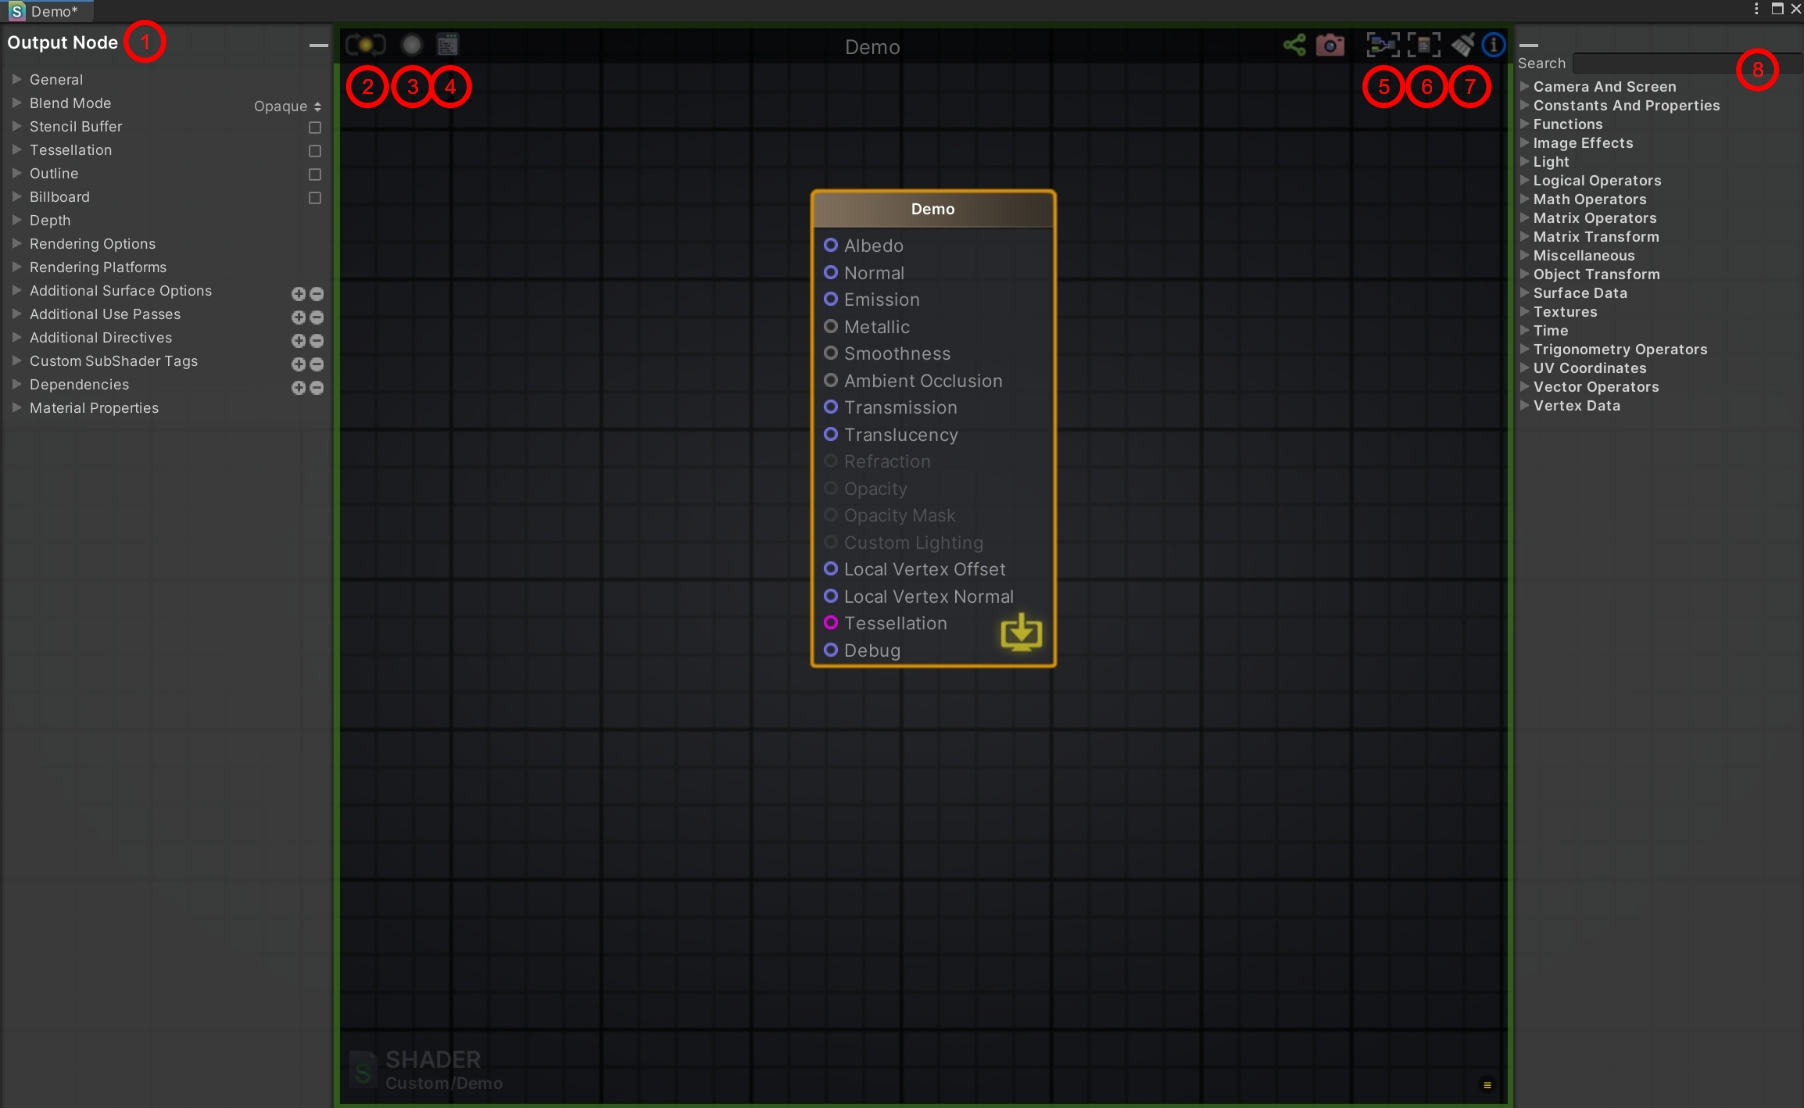
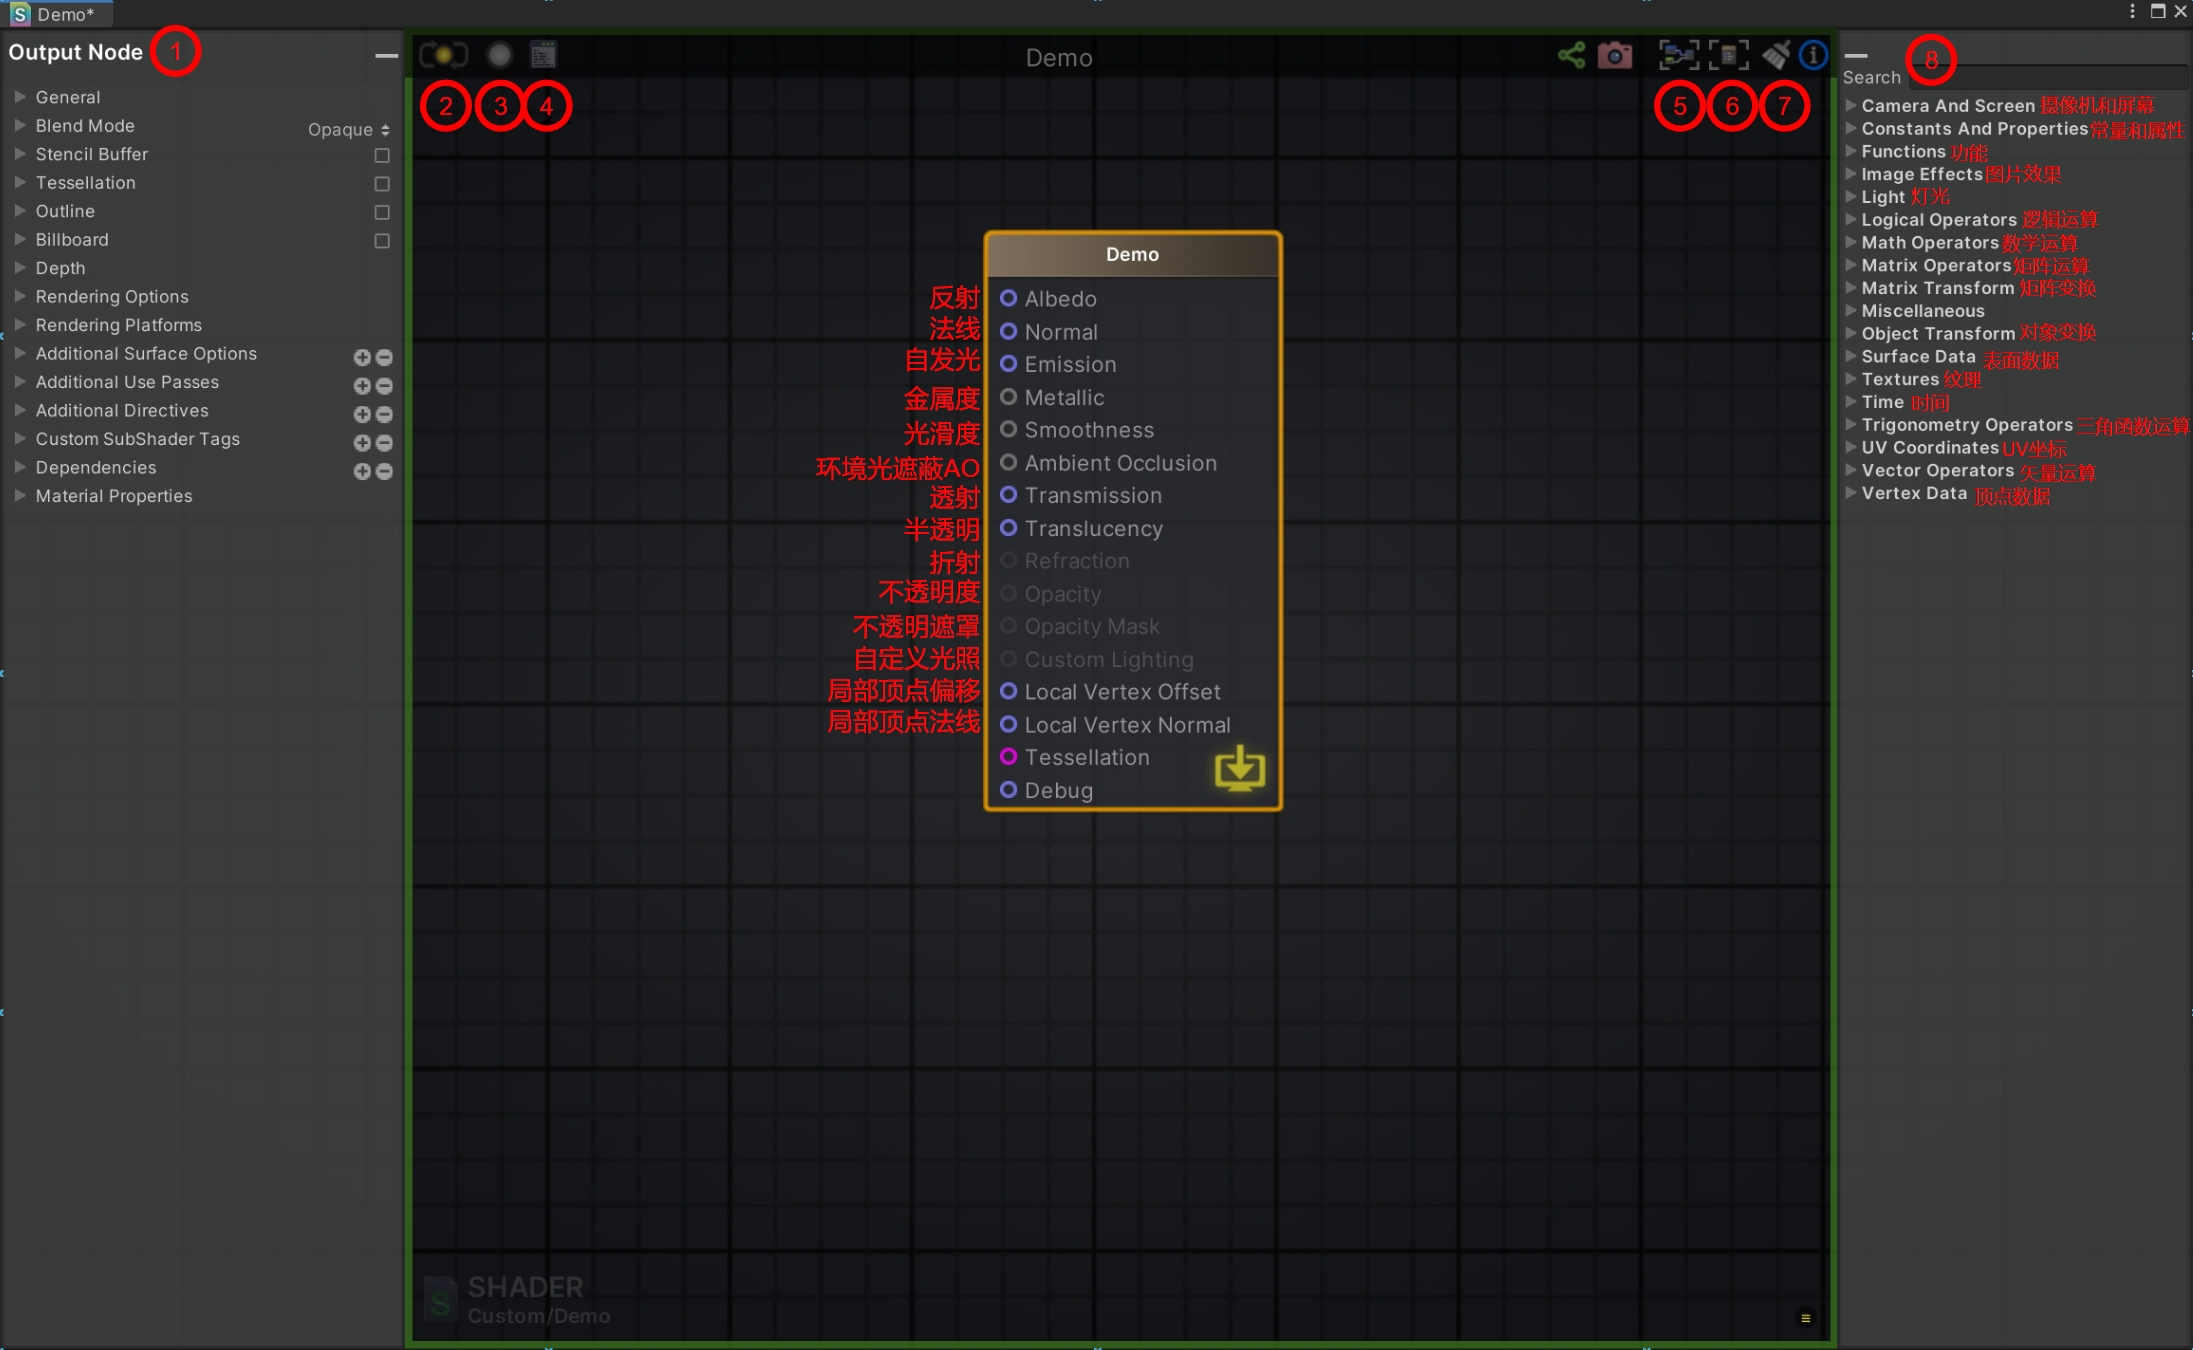
Deploy

diff --git a/2023/06/20/shader-ase-1/index.html b/2023/06/20/shader-ase-1/index.html
@@ -41,10 +41,10 @@
     <div class="tip">
         <time datetime="2023-06-20 11:13:34 &#43;0800 CST">2023/06/20</time>
         <span class="split">·</span>
-        <span> 191 words </span>
+        <span> 218 words </span>
         <span class="split">·</span>
         <span>
-            1 minutes to read
+            2 minutes to read
         </span>
     </div>
 
@@ -144,6 +144,23 @@
 7.清除按钮：删除已经断开连接的节点。
 8.节点选项板界面</li>
 </ul>
+<h3 id="常用类型和函数">常用类型和函数 <a href="#%e5%b8%b8%e7%94%a8%e7%b1%bb%e5%9e%8b%e5%92%8c%e5%87%bd%e6%95%b0" class="anchor">🔗</a></h3><h4 id="数据类型">数据类型 <a href="#%e6%95%b0%e6%8d%ae%e7%b1%bb%e5%9e%8b" class="anchor">🔗</a></h4><p><img src="/2023-06-20-unity-shader-ase-1/2023-06-20-unity-shader-ase-1-13.png" alt=""></p>
+<h4 id="运算符">运算符 <a href="#%e8%bf%90%e7%ae%97%e7%ac%a6" class="anchor">🔗</a></h4><p><img src="/2023-06-20-unity-shader-ase-1/2023-06-20-unity-shader-ase-1-14.png" alt=""></p>
+<h4 id="运算函数">运算函数 <a href="#%e8%bf%90%e7%ae%97%e5%87%bd%e6%95%b0" class="anchor">🔗</a></h4><p><img src="/2023-06-20-unity-shader-ase-1/2023-06-20-unity-shader-ase-1-15.png" alt="">
+Abs：绝对值运算
+One Minus：把所有的数值用1减，常用来取反。
+Power幂：次方运算
+Lerp：线性插值，以Alpha数值为标准，输出A和B之间的线性插值，Alpha是1时输出B，0时输出A，0.5时AB各一半。
+Clamp：约束，min和max数值可以自定义，截取输入值，并将其约束到min和max两个数值中间，如果输入值小于0，则输出0，如果输入值大于1，则输出1.
+Remap：重映射，将值从一个范围重映射到另一个范围。例如sin函数在-1~1之间变化，我们可以通过重映射将-1~1变化为0~1，这样就不会有负值情况了。
+Step：阶梯函数，(非黑即白，常用于硬溶解)如果A≤B，则输出1，如果A&gt;B，则输出0。
+SmoothStep：平滑阶梯函数，如果输入值在啊min和max之间，则输出0和1之间的平滑Hermite插值。</p>
+<h4 id="uv">UV <a href="#uv" class="anchor">🔗</a></h4><p><img src="/2023-06-20-unity-shader-ase-1/2023-06-20-unity-shader-ase-1-16.png" alt="">
+Texture Coordinates：UV坐标。
+Rotator：UV旋转，该节点将会把输入的UV或者2维量围绕你定义的Anchor点进行旋转，需要输入Time动态时间，不然会固定住，不会自动旋转。</p>
+<h4 id="坐标与朝向">坐标与朝向 <a href="#%e5%9d%90%e6%a0%87%e4%b8%8e%e6%9c%9d%e5%90%91" class="anchor">🔗</a></h4><p><img src="/2023-06-20-unity-shader-ase-1/2023-06-20-unity-shader-ase-1-17.png" alt=""></p>
+<h4 id="时间">时间 <a href="#%e6%97%b6%e9%97%b4" class="anchor">🔗</a></h4><p><img src="/2023-06-20-unity-shader-ase-1/2023-06-20-unity-shader-ase-1-18.png" alt=""></p>
+<h4 id="其他">其他 <a href="#%e5%85%b6%e4%bb%96" class="anchor">🔗</a></h4><p><img src="/2023-06-20-unity-shader-ase-1/2023-06-20-unity-shader-ase-1-19.png" alt=""></p>
 <h3 id="结论">结论 <a href="#%e7%bb%93%e8%ae%ba" class="anchor">🔗</a></h3><p>搬砖愉快！</p>
     </div>
 
